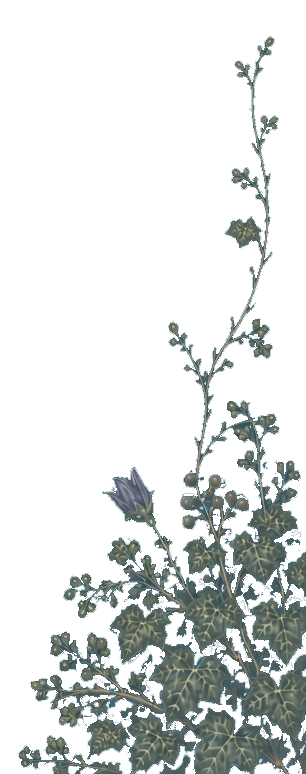
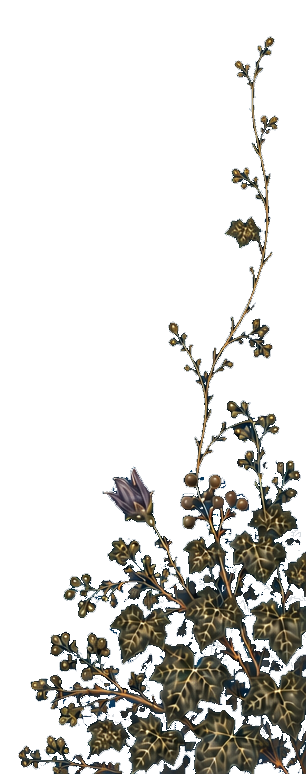
Restore botanical artwork contrast

Changed region(s): [[0.0588, 0.3721, 1.0, 1.0], [0.7353, 0.031, 0.9118, 0.3721]]

diff --git a/index.html b/index.html
@@ -466,32 +466,32 @@
       }
       .botanical-frame__upper-left {
         position: fixed;
-        top: -4px; left: -4px;
+        top: -4px; left: -20px;
         width: clamp(345px, calc((100vw - var(--maxw)) / 2 + 105px), 530px);
         aspect-ratio: 47 / 56;
-        background-image: url("assets/botanical-frame/painted-botanical-upper-left-light-ivory.webp");
+        background-image: url("assets/botanical-frame/painted-botanical-upper-left-light-ivory.webp?v=2");
       }
       .botanical-frame__lower-right {
         position: fixed;
         bottom: -46px; right: -8px;
         width: clamp(286px, calc((100vw - var(--maxw)) / 2 - 4px), 361px);
         aspect-ratio: 51 / 129;
-        background-image: url("assets/botanical-frame/painted-botanical-lower-right-light-ivory.webp");
+        background-image: url("assets/botanical-frame/painted-botanical-lower-right-light-ivory.webp?v=2");
       }
       .hero-lower { display: none !important; }
       html[data-theme="dark"] .botanical-frame__upper-left {
-        background-image: url("assets/botanical-frame/painted-botanical-upper-left-dark-petrol.webp");
+        background-image: url("assets/botanical-frame/painted-botanical-upper-left-dark-petrol.webp?v=2");
       }
       html[data-theme="dark"] .botanical-frame__lower-right {
-        background-image: url("assets/botanical-frame/painted-botanical-lower-right-dark-petrol.webp");
+        background-image: url("assets/botanical-frame/painted-botanical-lower-right-dark-petrol.webp?v=2");
       }
     }
     @media (min-width: 1680px) and (prefers-color-scheme: dark) {
       html:not([data-theme]) .botanical-frame__upper-left {
-        background-image: url("assets/botanical-frame/painted-botanical-upper-left-dark-petrol.webp");
+        background-image: url("assets/botanical-frame/painted-botanical-upper-left-dark-petrol.webp?v=2");
       }
       html:not([data-theme]) .botanical-frame__lower-right {
-        background-image: url("assets/botanical-frame/painted-botanical-lower-right-dark-petrol.webp");
+        background-image: url("assets/botanical-frame/painted-botanical-lower-right-dark-petrol.webp?v=2");
       }
     }
 

diff --git a/PROJECT_STATUS.md b/PROJECT_STATUS.md
@@ -14,7 +14,7 @@ This file records approved decisions and the verified implementation state. Alwa
 - Display font: Cormorant Garamond
 - Homepage and Cabinet light and dark themes must remain functional. The Game intentionally uses one fixed light theme, independent of the website theme preference.
 - The paired Ivory Ink and Petrol Ink themes use page-matched navigation backgrounds with a fine antique-gold hairline. Petrol Ink uses the balanced blue-green `#104a52` field, with coordinated `#185b61` and `#246a6d` surfaces: warmer and more saturated than the former blue-grey Marine Ink, but less green than the superseded Deep Teal study. Ivory Ink remains unchanged because its warm `#faf8f2` field already provides the clearest complementary light treatment. Petrol Ink is the first-visit default; a visitor’s explicit light or dark choice remains stored and takes precedence. The theme toggle keeps its 34 px interaction box and 28 px antique-gold face at every viewport. In the compact mobile header, only the half-filled glyph reduces from 20 px to 17 px; the face retains its dimensions while using a softer fill and half-pixel hairline.
-- At wide viewports, the approved painted botanical frame uses separate alpha-cleaned Ivory Ink and Petrol Ink derivatives while preserving the original artwork files. Both visible pieces are fixed to the viewport: the upper-left growth hangs slightly farther down from the moving top edge, while the lower-right growth rises from the moving bottom edge. Their edge pixels are matted to the corresponding page field so the foliage merges into each theme without a cool halo or light-theme cut-out border.
+- At wide viewports, the approved painted botanical frame uses separate alpha-cleaned Ivory Ink and Petrol Ink derivatives while preserving the original artwork files. Both visible pieces are fixed to the viewport: the upper-left growth hangs slightly farther down from the moving top edge and remains clear of the `MZ` monogram, while the lower-right growth rises from the moving bottom edge. The derivatives take their foliage and gold colour values directly from the pristine source painting rather than applying a background-colour matte; only their alpha geometry and the light-theme fuchsia flower accents differ.
 - Homepage language options: English, Swedish, and Polish
 - The Swedish homepage uses Martyna’s supplied official Swedish institutional and postal address. English retains the existing English form; Polish intentionally falls back to that English form until separate Polish wording is supplied or approved. The translated email-button label is separate.
 

diff --git a/docs/visual-style.md b/docs/visual-style.md
@@ -92,7 +92,7 @@ The Cacao of Excellence programme’s official 2021 `Cocoa of Excellence Flavour
 - Keep asymmetric rounded corners soft rather than exaggerated.
 - Use botanical curves, seed-pod forms and worm-like lines as small accents.
 - Full-section floral dividers use reinforced gold and emerald stems with theme-aware contrast, while their berry terminals and geometry stay delicate. On phones, preserve the approved footprint and dimensions; reinforce only the compressed edges with a subtle same-colour treatment rather than lengthening or enlarging the ornament. Internal subsection and list rules remain visibly quieter.
-- At wide viewports, treat the painted botanical frame as a pair of viewport-fixed growths rather than page-bound decoration: the upper-left piece hangs from the current top edge and the lower-right piece rises from the current bottom edge. Use separate Ivory Ink and Petrol Ink derivatives with alpha edges matted to `--site-bg`; do not reuse a derivative prepared against the other theme or alter the preserved source artwork.
+- At wide viewports, treat the painted botanical frame as a pair of viewport-fixed growths rather than page-bound decoration: the upper-left piece hangs from the current top edge, stays clear of the `MZ` monogram and the lower-right piece rises from the current bottom edge. Build both theme derivatives from the pristine source painting so the foliage and gold retain their original local contrast; use cleaned alpha geometry instead of a page-colour veil, and reserve the warmer fuchsia flower treatment for Ivory Ink. Do not alter the preserved source artwork.
 - Keep ornament subordinate to information and interaction.
 - Avoid emoji as primary visual elements and avoid oversized decorative icons.
 
